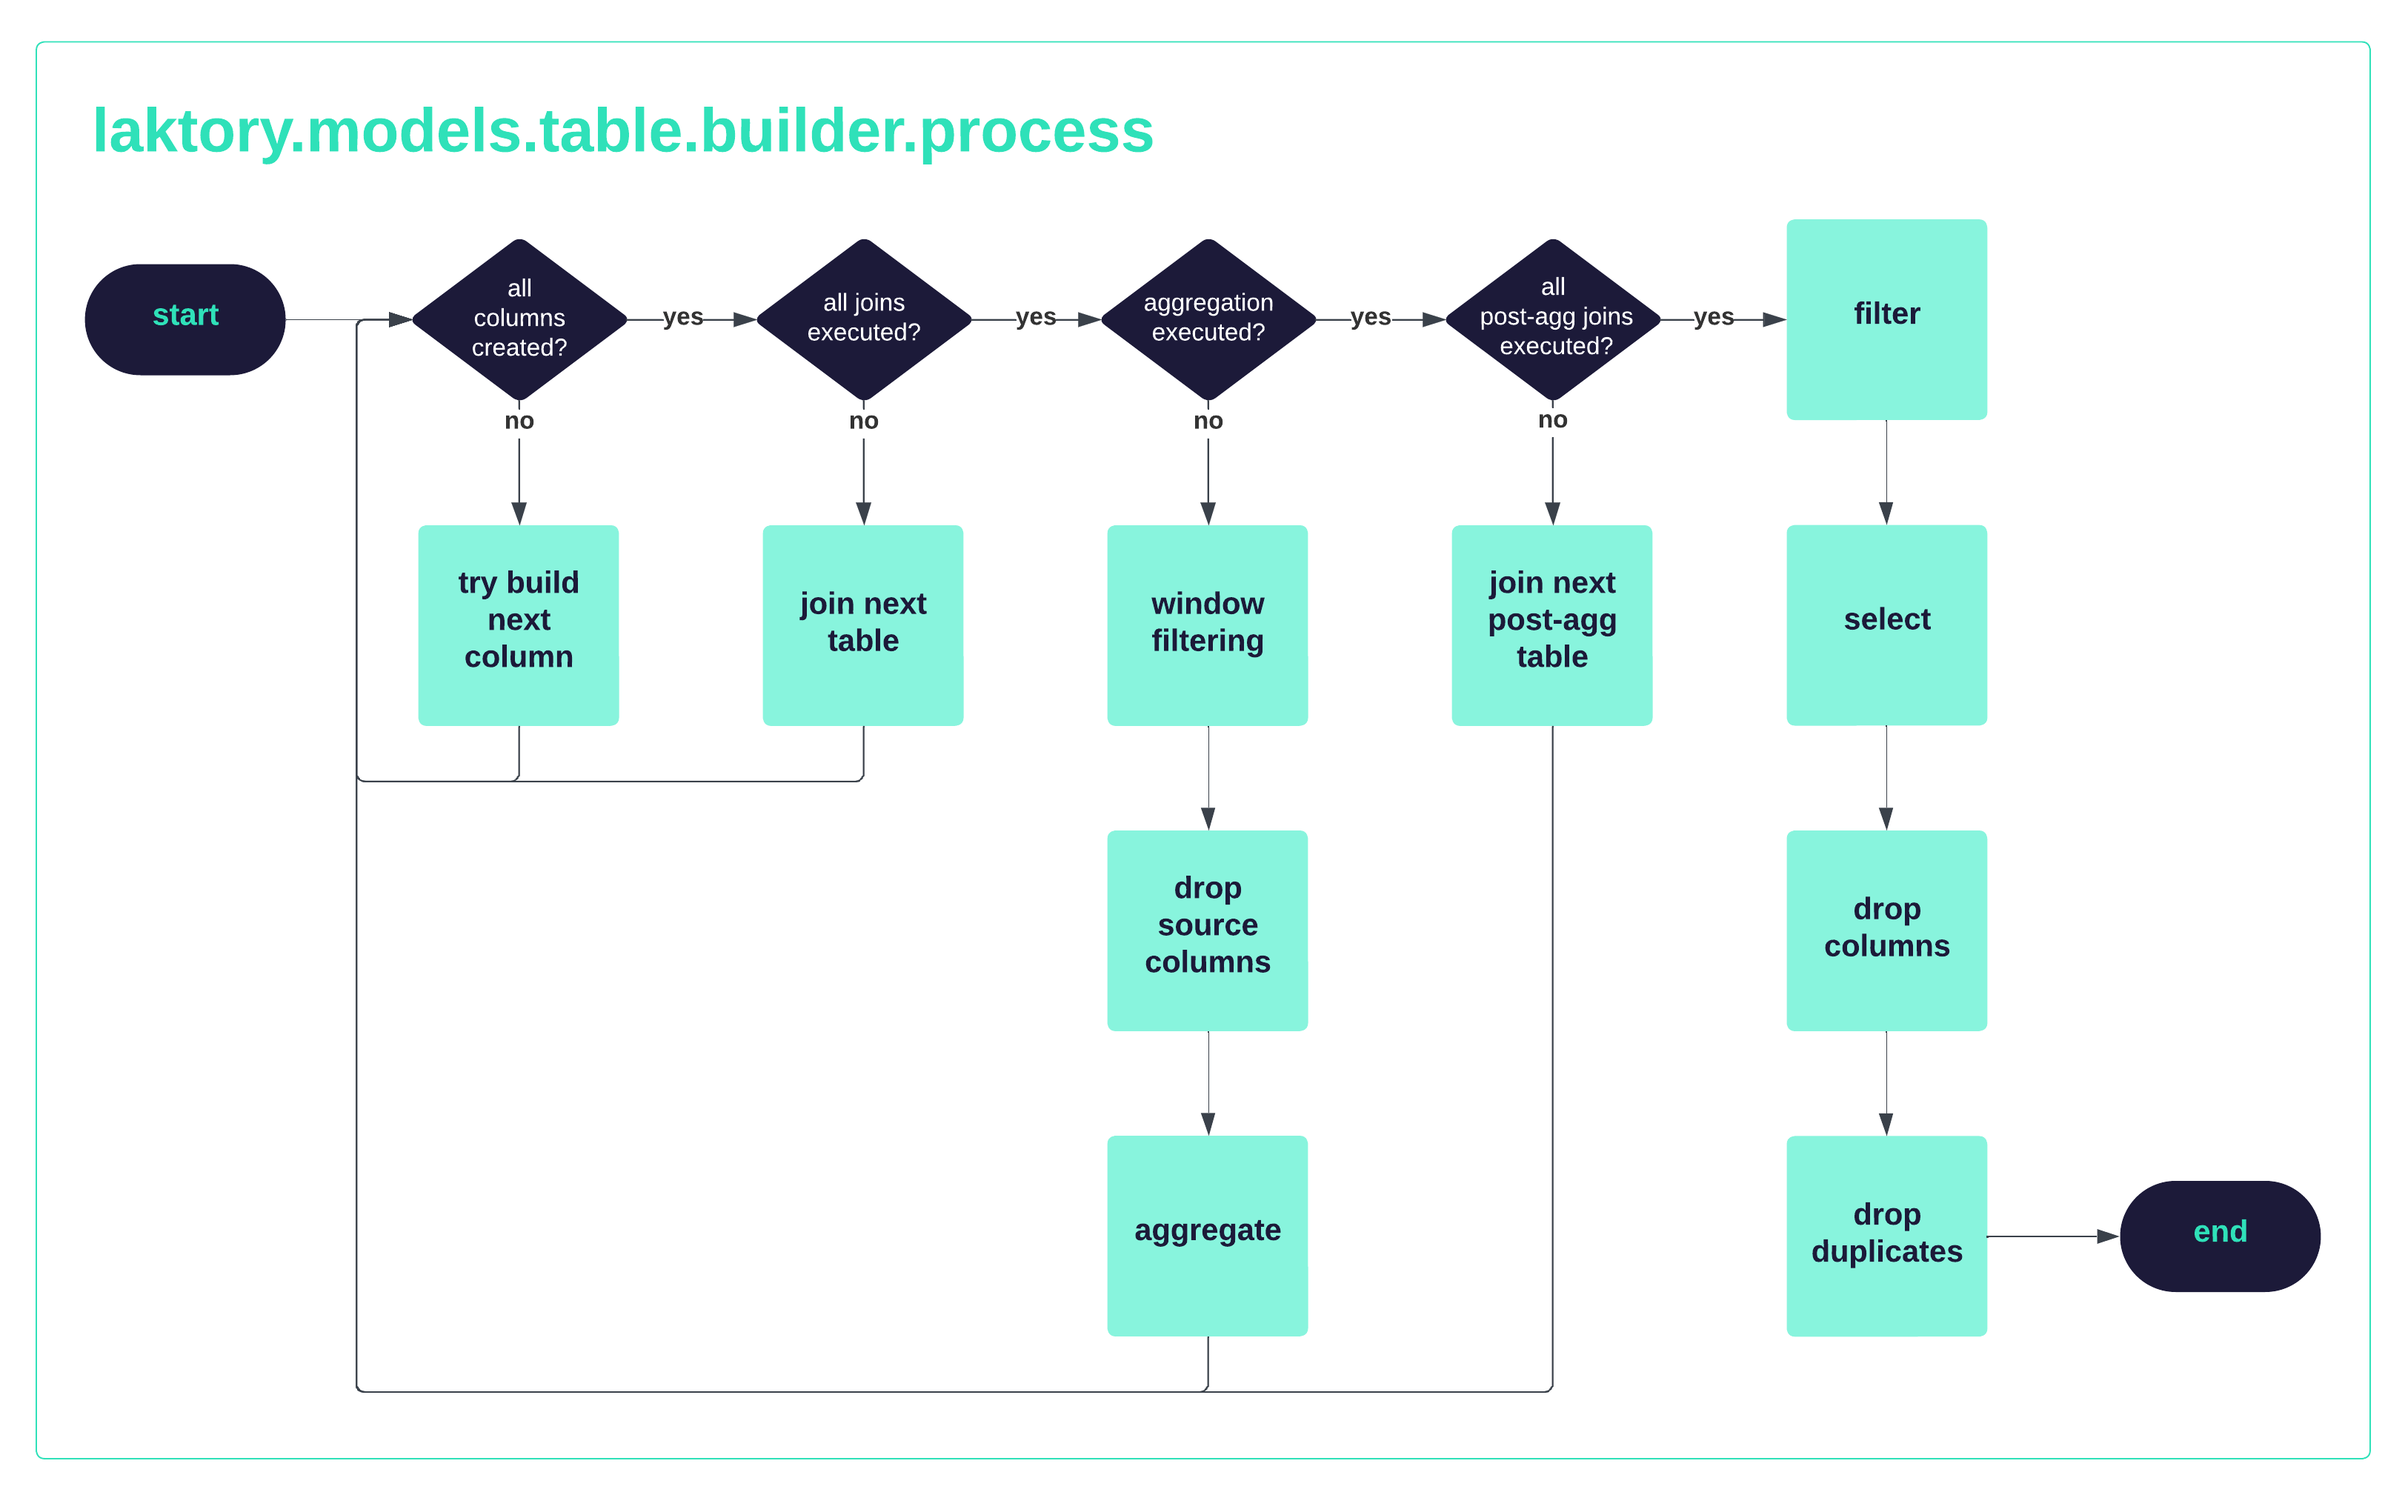
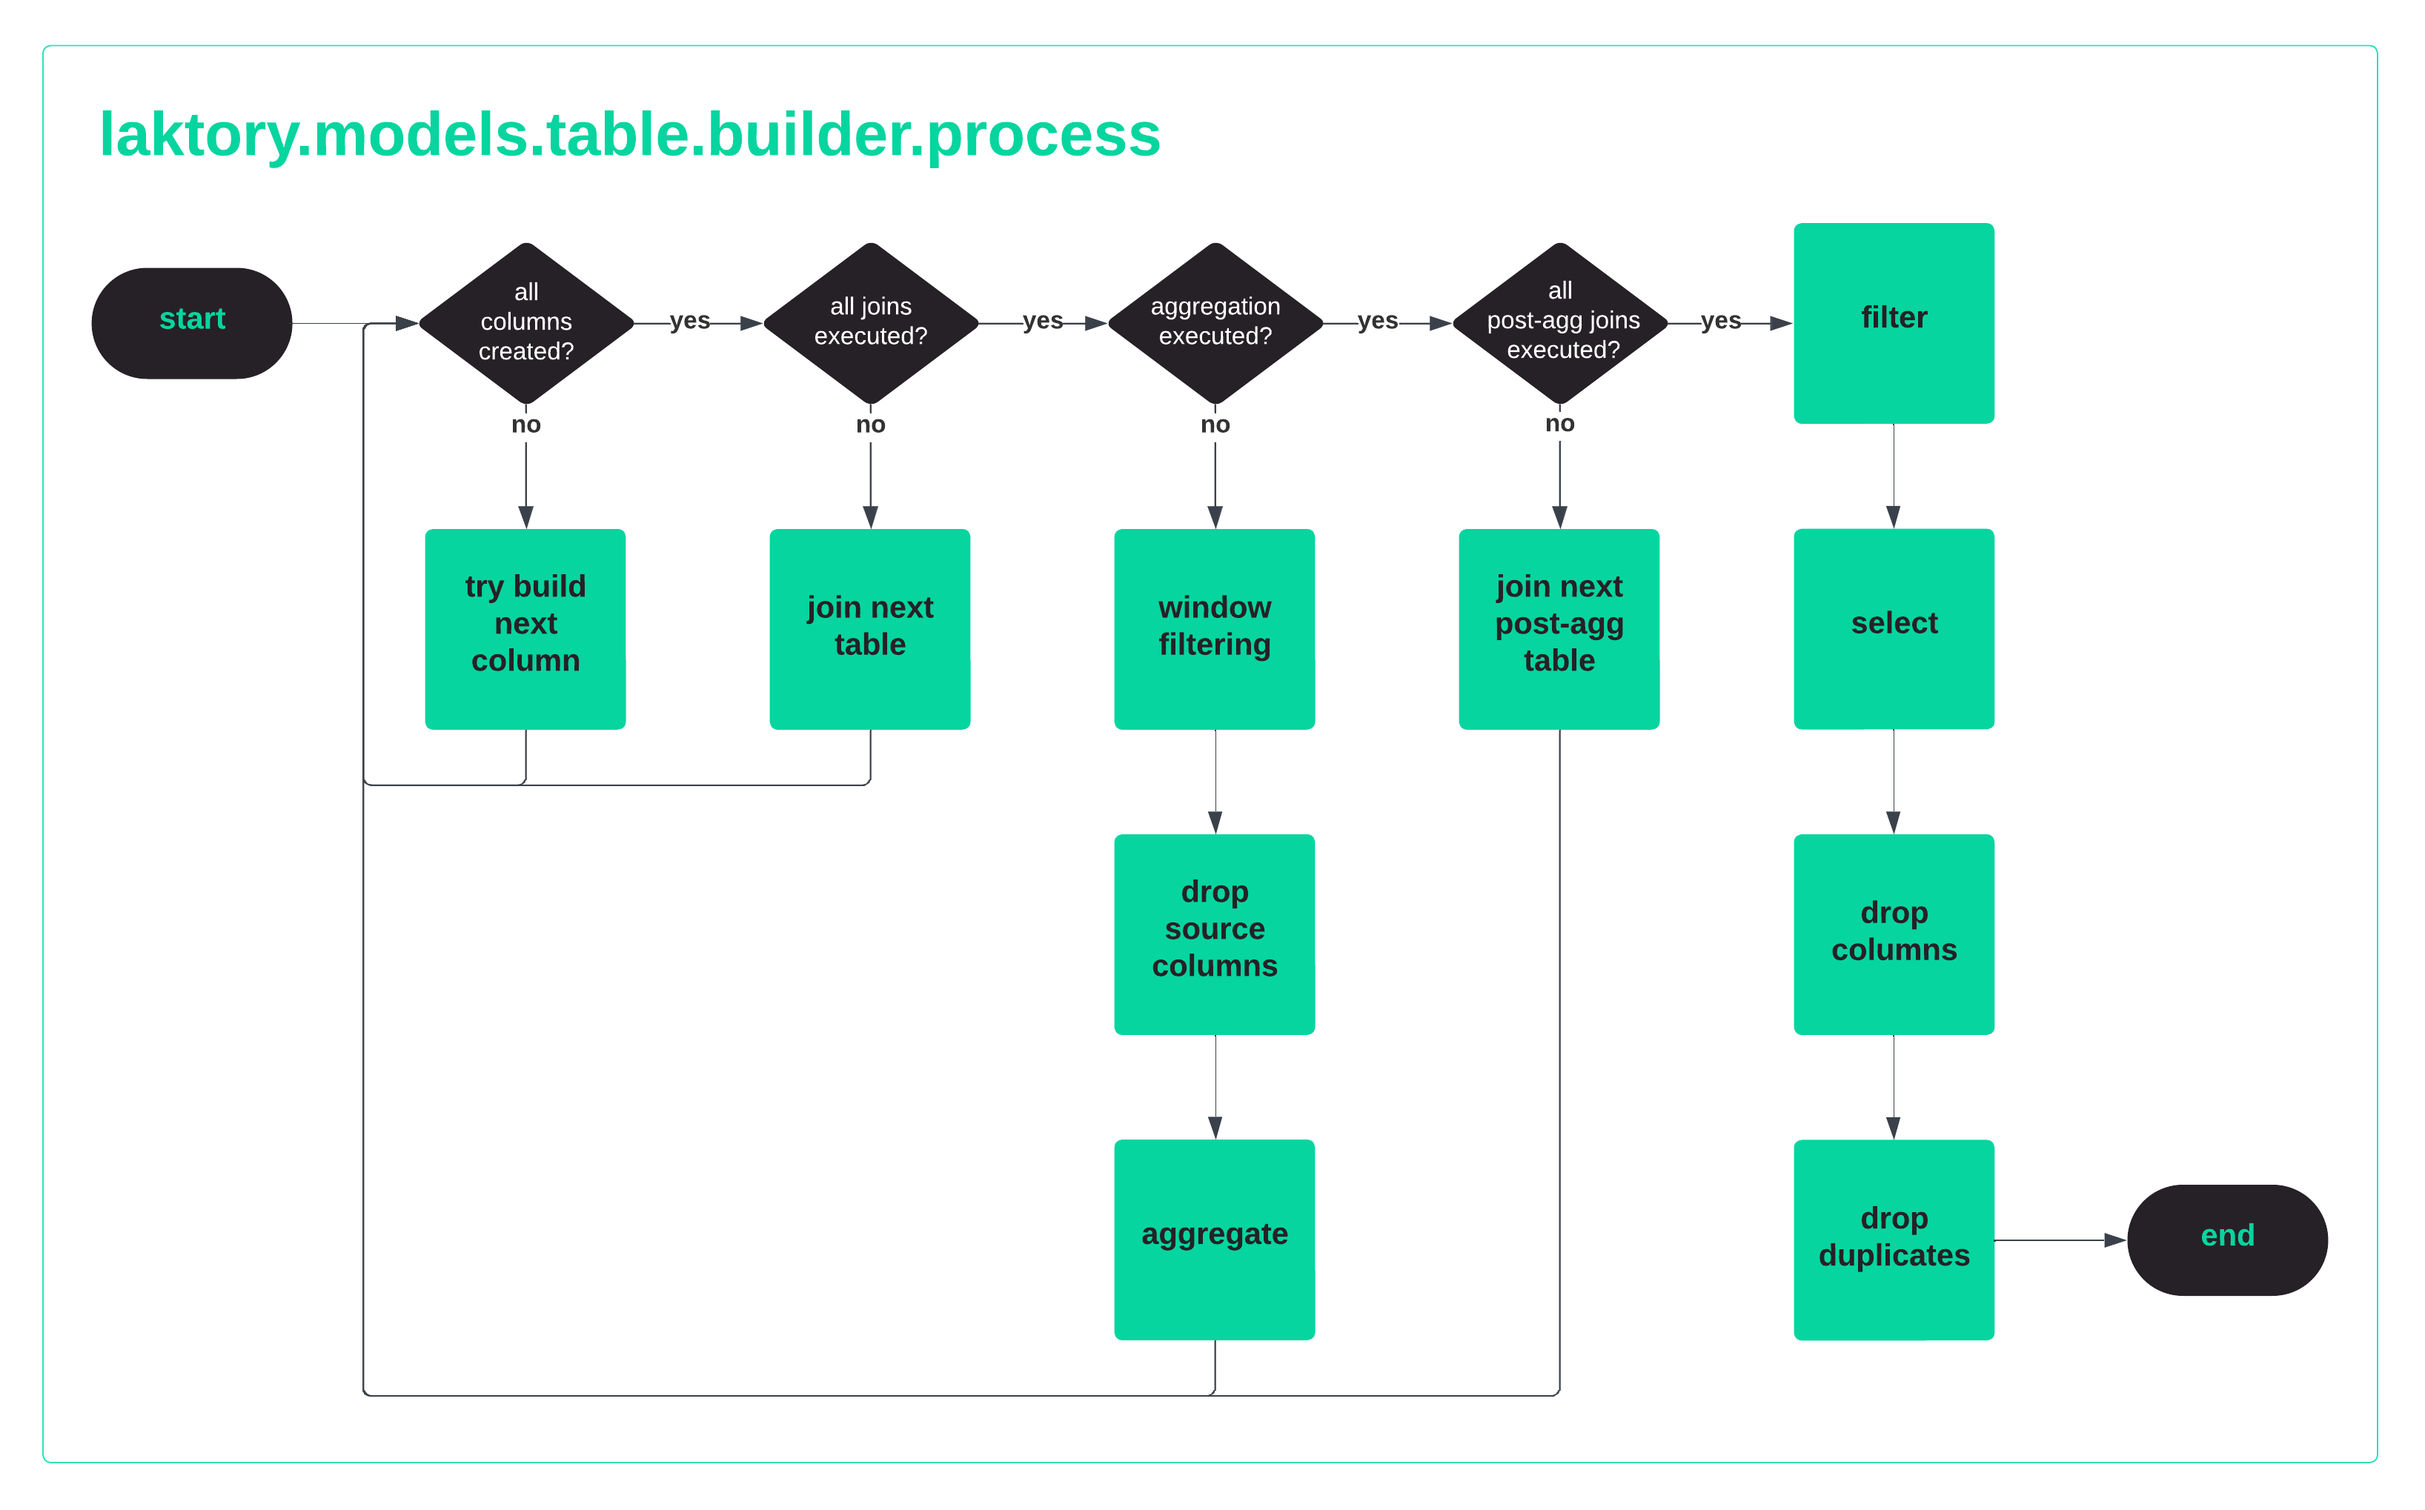
Update (#157)

diff --git a/docs/stylesheets/extra.css b/docs/stylesheets/extra.css
@@ -1,8 +1,8 @@
 [data-md-color-scheme="slate"] {
-  --md-default-bg-color: #1f1e30;
-  --md-primary-fg-color: #2fe1b9;
+  --md-default-bg-color: #262126;
+  --md-primary-fg-color: #06d59f;
 }
 
 [data-md-color-scheme="default"] {
-  --md-primary-fg-color: #2fe1b9;
+  --md-primary-fg-color: #06d59f;
 }

diff --git a/README.md b/README.md
@@ -1,3 +1,4 @@
+
 # Laktory
 
 [![pypi](https://img.shields.io/pypi/v/laktory.svg)](https://pypi.org/project/laktory/)
@@ -8,12 +9,14 @@
 
 A DataOps framework for building Databricks lakehouse.
 
-<img src="docs/images/what_is_laktory.png" alt="what is laktory" width="400"/>
+<img src="docs/images/logo_green.png" alt="laktory logo" width="85"/>
 
 Laktory makes it possible to express and bring to life your data vision, from raw to enriched analytics-ready datasets and finely tuned AI models, while adhering to basic DevOps best practices such as source control, code reviews and CI/CD.
 
 Using a declarative approach, you define your datasets and transformations, validate them and deploy them into Databricks workspaces. 
 Once deployed, you can once again leverage Laktory for debugging and monitoring.  
+
+<img src="docs/images/what_is_laktory.png" alt="what is laktory" width="400"/>
 
 ## Help
 See [documentation](https://www.laktory.ai/) for more details.
@@ -71,5 +74,7 @@ In this template, 4 pulumi projects are used to:
 - `workspace`: The data workflows to build your lakehouse.
 
 ## Okube Company
-Okube is dedicated to build open source frameworks, the *kubes*, that empower businesses to build and deploy highly scalable data platforms and AI models. Contributions are more than welcome.
+<img src="docs/images/okube.png" alt="okube logo" width="85"/>
+
+[Okube](https://www.okube.ai) is dedicated to building open source frameworks, known as the *kubes*, empowering businesses to build, deploy and operate highly scalable data platforms and AI models. 
 

diff --git a/docs/index.md b/docs/index.md
@@ -83,3 +83,7 @@ It does not have visual interface nor allow you to setup pipelines with a few cl
 On the other hand, if you have minimal DevOps or programming experience, you will be able to efficiently scale, deploying hundreds of datasets and models without compromising data governance.
 It also provides you with the tools for building a UI within your organization for a fully self-served experience.
 
+## Okube
+<img src="images/okube.png" alt="okube logo" width="85"/>
+
+Laktory is one of the *kubes* developed by [Okube](https://www.okube.ai), a company dedicated to building open source frameworks, empowering businesses to build, deploy and operate highly scalable data platforms and AI models.

diff --git a/CHANGELOG.md b/CHANGELOG.md
@@ -1,14 +1,8 @@
 # Release History
 
 ## [0.1.6] - Unreleased
-### Added
-* n/a
-### Fixed
-* n/a
 ### Updated
-* n/a
-### Breaking changes
-* n/a
+* Website branding
 
 ## [0.1.5] - 2024-02-14
 ### Added
